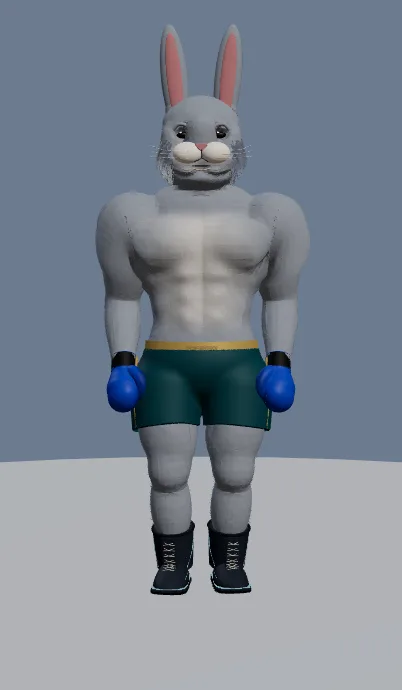
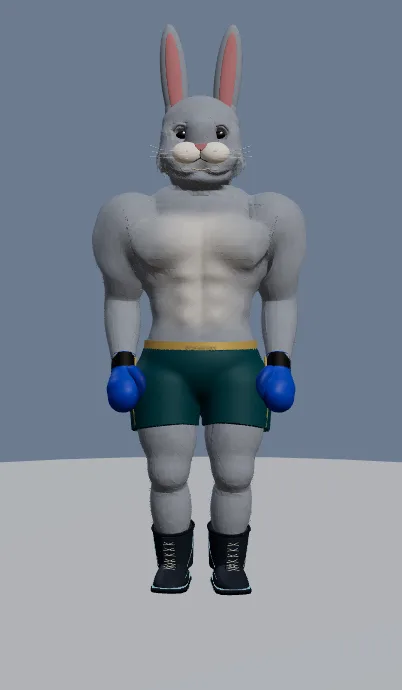
GOTR-0078: clothes follow the place in every story scene and trial (kit and gloves only in gym and ring), everyday poses outside fight moments, docks outfit (track pants + wraps), tests
Claude-Session: https://claude.ai/code/session_012XYxhJ7jTb1Ye5xdCZM7vq

diff --git a/adventure/story/story-core.js b/adventure/story/story-core.js
@@ -96,16 +96,16 @@
       ],
       actors: {
         fighter: { rig: 'fighter', keys: [
-          { t: 0, x: 0.6, z: -4.8, act: 'shadow', face: 0.25 },
-          { t: 5.6, x: 0.6, z: -4.8, act: 'guard', face: [-1.5, -5.1] },
+          { t: 0, x: 0.6, z: -4.8, act: 'idle', face: 0.25 },
+          { t: 5.6, x: 0.6, z: -4.8, act: 'idle', face: [-1.5, -5.1] },
           { t: 8.0, x: 0.6, z: -4.8, act: 'idle', face: [-1.5, -5.1] }
         ] },
-        pip: { rig: 'pip', mitts: true, keys: [
+        pip: { rig: 'pip', keys: [
           { t: 0, x: -8.2, z: -5.3, act: 'idle', face: Math.PI / 2 },
           { t: 1.0, x: -8.2, z: -5.3 },
           { t: 5.6, x: -1.5, z: -5.1, act: WAVE, face: [0.6, -4.8] },
           { t: 6.8, x: -1.5, z: -5.1, act: POINT },
-          { t: 8.4, x: -1.5, z: -5.1, act: 'mitts' }
+          { t: 8.4, x: -1.5, z: -5.1, act: 'idle' }
         ] }
       },
       props: { bus: [{ t: 0, v: [0.4] }, { t: 0.7, v: [0.4] }, { t: 3.6, v: [30], ease: 'in' }] },
@@ -126,7 +126,7 @@
       actors: {
         fighter: { rig: 'fighter', keys: [
           { t: 0, x: -8.2, z: -0.9, act: 'idle', face: [-11.6, -1.2] },
-          { t: 2.6, x: -8.2, z: -0.9, act: 'guard' },
+          { t: 2.6, x: -8.2, z: -0.9, act: 'idle' },
           { t: 4.4, x: -8.2, z: -0.9, act: 'idle' }
         ] },
         brick: { rig: 'brick', keys: [
@@ -155,7 +155,7 @@
         { t: 10.2, pos: [5.2, 1.55, 3.3], look: [6.9, 1.3, -1.0], fit: ['dash', 'fighter'], ease: 'linear' }
       ],
       actors: {
-        fighter: { rig: 'fighter', keys: [{ t: 0, x: 5.4, z: -0.5, act: 'idle', face: [8, -1.4] }, { t: 6.2, x: 5.4, z: -0.5, act: 'guard', face: [7.4, -1.4] }, { t: 8.4, x: 5.4, z: -0.5, act: 'idle' }] },
+        fighter: { rig: 'fighter', keys: [{ t: 0, x: 5.4, z: -0.5, act: 'idle', face: [8, -1.4] }, { t: 6.2, x: 5.4, z: -0.5, act: 'idle', face: [7.4, -1.4] }, { t: 8.4, x: 5.4, z: -0.5, act: 'idle' }] },
         regular: { rig: 'regular', keys: [{ t: 0, x: 8.7, z: -1.4, act: 'shadow', face: [7.4, -1.4] }, { t: 2.0, x: 8.7, z: -1.4, act: 'guard' }, { t: 2.95, x: 8.7, z: -1.4, act: 'down' }] },
         dash: { rig: 'dash', keys: [
           { t: 0, x: 2.4, z: -1.6, act: 'idle', face: Math.PI / 2 },
@@ -203,7 +203,7 @@
       ],
       actors: {
         brick: { rig: 'brick', keys: [{ t: 0, x: 11, z: -2.5, act: 'idle', face: [9.5, -1.7] }, { t: 0.5, x: 11, z: -2.5 }, { t: 2.2, x: 12.9, z: -1.5, act: 'idle', face: [9.5, -1.7] }, { t: 4.4, x: 12.9, z: -1.5, act: 'off' }] }, // out of the shot: not drawn
-        fighter: { rig: 'fighter', keys: [{ t: 0, x: 9.6, z: -1.7, act: 'guard', face: [11, -2.5] }, { t: 2.6, x: 9.6, z: -1.7, act: 'idle', face: [8.3, -1.5] }, { t: 6.0, x: 9.6, z: -1.7, act: 'flex' }] },
+        fighter: { rig: 'fighter', keys: [{ t: 0, x: 9.6, z: -1.7, act: 'idle', face: [11, -2.5] }, { t: 2.6, x: 9.6, z: -1.7, act: 'idle', face: [8.3, -1.5] }, { t: 6.0, x: 9.6, z: -1.7, act: 'flex' }] },
         pip: { rig: 'pip', keys: [{ t: 0, x: 6.6, z: -0.8, act: 'idle', face: Math.PI / 2 }, { t: 2.2, x: 6.6, z: -0.8 }, { t: 3.6, x: 7.6, z: -1.5, act: 'point', face: [9.6, -1.7] }, { t: 6.2, x: 7.6, z: -1.5, act: 'idle' }, { t: 7.2, x: 7.6, z: -1.5, act: 'wave' }] }
       },
       props: {},
@@ -228,8 +228,8 @@
         { t: 9.6, pos: [-1.2, 1.55, 3.1], look: [0.3, 1.3, -0.9], fit: ['vix', 'fighter'], ease: 'linear' }
       ],
       actors: {
-        fighter: { rig: 'fighter', keys: [{ t: 0, x: -5.2, z: -0.5, act: 'idle', face: HALF }, { t: 0.4, x: -5.2, z: -0.5 }, { t: 3.3, x: -0.7, z: -0.8, act: 'idle', face: [1.3, -1.0] }, { t: 6.4, x: -0.7, z: -0.8, act: 'guard' }] },
-        vix: { rig: 'vix', keys: [{ t: 0, x: 1.3, z: -1.0, act: 'shadow', face: 0.5 }, { t: 3.3, x: 1.3, z: -1.0, act: 'idle', face: [-0.7, -0.8] }, { t: 4.4, x: 1.3, z: -1.0, act: 'point' }, { t: 6.2, x: 1.3, z: -1.0, act: 'mitts' }] }
+        fighter: { rig: 'fighter', keys: [{ t: 0, x: -5.2, z: -0.5, act: 'idle', face: HALF }, { t: 0.4, x: -5.2, z: -0.5 }, { t: 3.3, x: -0.7, z: -0.8, act: 'idle', face: [1.3, -1.0] }, { t: 6.4, x: -0.7, z: -0.8, act: 'idle' }] },
+        vix: { rig: 'vix', keys: [{ t: 0, x: 1.3, z: -1.0, act: 'idle', face: 0.5 }, { t: 3.3, x: 1.3, z: -1.0, act: 'idle', face: [-0.7, -0.8] }, { t: 4.4, x: 1.3, z: -1.0, act: 'point' }, { t: 6.2, x: 1.3, z: -1.0, act: 'idle' }] }
       },
       props: {},
       lines: [
@@ -248,7 +248,7 @@
         { t: 9.6, pos: [-1.6, 1.55, 2.9], look: [-2.0, 1.3, -0.9], fit: ['pip', 'fighter'], ease: 'linear' }
       ],
       actors: {
-        fighter: { rig: 'fighter', keys: [{ t: 0, x: -1.2, z: -0.8, act: 'idle', face: [-3, -1] }, { t: 5.4, x: -1.2, z: -0.8, act: 'guard', face: HALF }] },
+        fighter: { rig: 'fighter', keys: [{ t: 0, x: -1.2, z: -0.8, act: 'idle', face: [-3, -1] }, { t: 5.4, x: -1.2, z: -0.8, act: 'idle', face: HALF }] },
         pip: { rig: 'pip', keys: [{ t: 0, x: -3.0, z: -1.0, act: 'idle', face: [-1.2, -0.8] }, { t: 0.6, x: -3.0, z: -1.0, act: 'wave' }, { t: 3.4, x: -3.0, z: -1.0, act: 'idle' }, { t: 5.6, x: -3.0, z: -1.0, act: 'point', face: HALF }] },
         raccoon: { rig: 'raccoon', keys: [{ t: 0, x: -8.5, z: -2.0, act: 'off', face: HALF }, { t: 1.0, x: -8.5, z: -2.0, act: 'idle' }, { t: 3.1, x: -3.75, z: -1.55, act: 'point', face: [-3.0, -1.0] }, { t: 3.7, x: -3.75, z: -1.55, act: 'idle' }, { t: 6.2, x: 9.5, z: -1.3 }, { t: 6.3, x: 9.5, z: -1.3, act: 'off' }] }
       },
@@ -270,7 +270,7 @@
       actors: {
         regular: { rig: 'regular', keys: [{ t: 0, x: 14.4, z: -1.3, act: 'down', face: [12.9, -1] }] },
         dash: { rig: 'dash', keys: [{ t: 0, x: 12.9, z: -1.0, act: 'flex', face: 0.3 }, { t: 3.4, x: 12.9, z: -1.0, act: 'point', face: [11.0, -0.7] }, { t: 6.4, x: 12.9, z: -1.0, act: 'laugh' }] },
-        fighter: { rig: 'fighter', keys: [{ t: 0, x: 8.2, z: -0.4, act: 'idle', face: HALF }, { t: 0.6, x: 8.2, z: -0.4 }, { t: 2.6, x: 11.0, z: -0.7, act: 'idle', face: [12.9, -1.0] }, { t: 3.6, x: 11.0, z: -0.7, act: 'guard' }] }
+        fighter: { rig: 'fighter', keys: [{ t: 0, x: 8.2, z: -0.4, act: 'idle', face: HALF }, { t: 0.6, x: 8.2, z: -0.4 }, { t: 2.6, x: 11.0, z: -0.7, act: 'idle', face: [12.9, -1.0] }, { t: 3.6, x: 11.0, z: -0.7, act: 'idle' }] }
       },
       props: {},
       lines: [
@@ -306,7 +306,7 @@
       ],
       actors: {
         king: { rig: 'king', keys: [{ t: 0, x: -14, z: -1.2, act: 'down', face: [-12.2, -0.9] }, { t: 3.4, x: -14, z: -1.2, act: 'idle' }] },
-        fighter: { rig: 'fighter', keys: [{ t: 0, x: -12.2, z: -0.9, act: 'guard', face: [-14, -1.2] }, { t: 1.0, x: -12.2, z: -0.9, act: 'idle' }, { t: 3.8, x: -12.2, z: -0.9, act: 'flex', face: 0.6 }] }
+        fighter: { rig: 'fighter', keys: [{ t: 0, x: -12.2, z: -0.9, act: 'idle', face: [-14, -1.2] }, { t: 1.0, x: -12.2, z: -0.9, act: 'idle' }, { t: 3.8, x: -12.2, z: -0.9, act: 'flex', face: 0.6 }] }
       },
       props: {},
       lines: [
@@ -317,6 +317,20 @@
     }
   });
 
-  const api = { clamp, smooth, EASE, segment, camera, prop, actor, line, sample, validate, scenes, STEP, L };
+  /* ---------------------------------------------------------------- places and clothes (owner's rule, GOTR-0078)
+   * Boxing kit and gloves belong to the gym and the ring only. Every scene and every skill trial has a place kind; the
+   * outfit of EVERY character in it follows the place: street and market -> street clothes, bare hands; docks -> long
+   * track pants and hand wraps, no gloves; gym and ring -> boxing kit. Outside a fight or drill moment characters stand
+   * and move like people (no guard). */
+  const PLACES = ['street', 'market', 'docks', 'gym', 'ring'];
+  const SET_PLACE = { busstop: 'street', gymfront: 'street', market: 'market', dream_street: 'street', dream_gym: 'gym' };
+  const OUTFIT = { street: 'street', market: 'street', docks: 'track_wraps', gym: 'kit', ring: 'kit' };
+  const placeOf = scene => scene?.place || SET_PLACE[scene?.set] || 'street';
+  const outfitFor = place => OUTFIT[place] || 'street';
+  /** Acts that are a fight or a punching drill: only these may show the guard or punches. Everything else is everyday body language. */
+  const FIGHT_ACTS = ['guard', 'shadow', 'combo', 'move'];
+  for (const sc of Object.values(scenes)) sc.place = placeOf(sc);
+  for (const id of ['dash', 'boss_intro', 'hyena_intro']) scenes[id].fight = true; // scenes where a fight really starts or happens: the only ones that may use FIGHT_ACTS
+  const api = { clamp, smooth, EASE, segment, camera, prop, actor, line, sample, validate, scenes, STEP, L, PLACES, SET_PLACE, placeOf, outfitFor, FIGHT_ACTS };
   if (typeof module !== 'undefined') module.exports = api; else window.StoryCore = api;
 })();

diff --git a/adventure/story/story-cast.js b/adventure/story/story-cast.js
@@ -456,8 +456,8 @@
     // arrival clothes: a grey marl hoodie, worn jeans, tired canvas sneakers, bare hands
     street: {
       hide: ['gloves', 'shorts', 'boots', 'trim', 'fur'],
-      cloth(rig) {
-        const tone = HOODIE[rig.species] || HOODIE.lion, hood = lin(tone[0]), dark = lin(tone[1]), denim = lin('#3d5b86'), worn = lin('#7f9cc4'), seam = lin('#c9a36a'), tmp = new THREE.Color();
+      cloth(rig, tint) {
+        const tone = HOODIE[rig.species] || HOODIE.lion, hood = tint ? lin(tint).lerp(lin('#8a8f96'), .35) : lin(tone[0]), dark = tint ? hood.clone().multiplyScalar(.72) : lin(tone[1]), denim = lin('#3d5b86'), worn = lin('#7f9cc4'), seam = lin('#c9a36a'), tmp = new THREE.Color();
         return v => {
           const ax = Math.abs(v.x);
           if (v.y > 1.772 || ax > .925 || v.y < .112) return null;
@@ -480,12 +480,12 @@
           return { d: .022 + .006 * waist + .005 * pocket + wr + gather - .006 * Math.max(hem, cuff) * (1 - rib * .5) - .006 * smooth((v.y - 1.71) / .06), c, move };
         };
       },
-      parts(rig, add) {
+      parts(rig, add, tint) {
         const f = FUR[rig.species] || FUR.lion, j = rig.joints, B = (x, y, back) => seat(rig, x, y, false, .02, back);
         for (const m of bareHands(rig, f.fur, f.pad)) add(m);
         for (const m of shoes(rig, { upper: '#d6cfbf', toe: '#bdb5a3', sole: '#a79e8c', edge: '#8c3b33', lace: '#efeadf', collar: '#b9b1a0' })) add(m);
         // the hood lies on the upper back; a collar ring and two drawstrings in front
-        const P = new Parts(), [hood, dark] = HOODIE[rig.species] || HOODIE.lion, bz = B(0, 1.66, true), o = V(0, 1.36, 0), L = p => p.clone().sub(o);
+        const hc = tint ? lin(tint).lerp(lin('#8a8f96'), .35) : lin((HOODIE[rig.species] || HOODIE.lion)[0]), P = new Parts(), hood = hc, dark = hc.clone().multiplyScalar(.72), bz = B(0, 1.66, true), o = V(0, 1.36, 0), L = p => p.clone().sub(o);
         P.sph(L(V(0, 1.63, bz - .02)), V(.2, .17, .07), hood, [.2, 0, 0]); P.sph(L(V(0, 1.675, bz - .068)), V(.13, .09, .03), dark, [.2, 0, 0]); for (const sd of [-1, 1]) P.sph(L(V(sd * .13, 1.72, bz * .5 - .01)), V(.075, .06, .1), hood, [0, sd * .5, 0]);
         P.tor(L(V(0, 1.775, -.012)), V(.118, .135, .11), hood, [Math.PI / 2 - .22, 0, 0]);
         for (const s of [-1, 1]) { const z = B(s * .045, 1.62); P.ribbon([L(V(s * .05, 1.70, B(s * .05, 1.70) + .01)), L(V(s * .045, 1.64, B(s * .045, 1.64) + .01)), L(V(s * .05, 1.575, B(s * .05, 1.575) + .008))], .008, .008, '#e9e4d8', V(1, 0, 0), 10, 6); P.sph(L(V(s * .05, 1.568, B(s * .05, 1.575) + .008)), V(.008, .012, .008), '#e9e4d8'); }
@@ -493,19 +493,36 @@
       }
     }
   };
+  // the docks: long track pants, hand wraps, no gloves, bare chest
+  OUTFITS.track_wraps = {
+    hide: ['gloves', 'shorts', 'boots', 'trim'],
+    cloth(rig, tint) {
+      const pants = lin('#2f333b'), stripe = lin(tint || '#d9d4c6'), tmp = new THREE.Color();
+      return v => { if (v.y > 1.075 || v.y < .112 || v.arm > .5) return null; const ax = Math.abs(v.x), side = bell(Math.abs(Math.atan2(v.z, ax - (.15 + (1 - v.y) * .07))), 0, .16) * smooth((ax - .2) / .04), band2 = 1 - smooth((1.045 - v.y) / .02);
+        return { d: (.015 + .008 * bell(v.y, .13, .03)) * (1 - .4 * smooth((v.y - 1.05) / .025)), c: tmp.copy(pants).lerp(stripe, clamp(side * 1.3)).lerp(lin('#1d2026'), band2).clone(), move: v.y < .93 ? trouser(v, lerp(.112, .126, smooth((v.y - .5) / .4)), smooth((.93 - v.y) / .1)) : null }; };
+    },
+    parts(rig, add) {
+      const f = FUR[rig.species] || FUR.lion;
+      for (const m of bareHands(rig, f.fur, f.pad)) add(m);
+      for (const sd of ['L', 'R']) { const P = new Parts(); for (let k = 0; k < 4; k++) P.tor(V(0, -.012 - k * .024, 0), V(.047 - k * .001, .04, .05), '#f1ece0', [Math.PI / 2, 0, 0]); P.sph(V(0, -.098, .008), V(.048, .03, .034), '#f1ece0', [.35, 0, 0]); const m = P.mesh('Hand wraps'); rig.joints['hand' + sd].add(m); add(m); }
+      for (const m of shoes(rig, { upper: '#3b3e46', toe: '#2a2d33', sole: '#c9c0ae', lace: '#d8d2c4' })) add(m);
+    }
+  };
   const state = rig => rig.storyCast || (rig.storyCast = { outfit: 'kit', built: {}, hidden: [], base: null, bag: null });
-  function outfit(rig, name) {
+  function outfit(rig, name, o = {}) {
     if (!rig?.skin || !(name in OUTFITS)) return false;
-    groom(rig); const st = state(rig), g = rig.skin.geometry; if (st.outfit === name) return true;
+    if (rig.cast) return true; // story characters wear their own clothes (Bruno) or their kit (Brick)
+    const tint = name !== 'kit' && o.tint ? String(o.tint) : '', key = name + (tint ? '|' + tint : '');
+    groom(rig); const st = state(rig), g = rig.skin.geometry; if (st.key === key || (name === 'kit' && st.outfit === 'kit')) return true;
     // back to the kit: streams and every visibility flag exactly as they were
-    if (st.outfit !== 'kit') { use(g, st.base); for (const [o, v] of st.hidden) o.visible = v; st.hidden = []; for (const m of st.built[st.outfit].parts) m.visible = false; if (st.bag) st.bag.visible = false; st.outfit = 'kit'; }
+    if (st.outfit !== 'kit') { use(g, st.base); for (const [o, v] of st.hidden) o.visible = v; st.hidden = []; for (const m of st.built[st.key].parts) m.visible = false; if (st.bag) st.bag.visible = false; st.outfit = 'kit'; st.key = 'kit'; }
     if (name === 'kit') return true;
     const def = OUTFITS[name]; if (!st.base) st.base = grab(g);
-    let b = st.built[name];
-    if (!b) { b = st.built[name] = { parts: [], streams: null }; if (def.cloth) { b.streams = dress(g, def.cloth(rig), { relax: 26 }); use(g, b.streams); } if (def.parts) def.parts(rig, m => b.parts.push(m)); } // small parts are seated on the dressed surface
+    let b = st.built[key];
+    if (!b) { b = st.built[key] = { parts: [], streams: null }; if (def.cloth) { b.streams = dress(g, def.cloth(rig, tint), { relax: 26 }); use(g, b.streams); } if (def.parts) def.parts(rig, m => b.parts.push(m), tint); } // small parts are seated on the dressed surface
     if (b.streams) use(g, b.streams);
     const kit = kitParts(rig); for (const k of def.hide || []) for (const o of kit[k] || []) { st.hidden.push([o, o.visible]); o.visible = false; }
-    for (const m of b.parts) m.visible = true; st.outfit = name; return true;
+    for (const m of b.parts) m.visible = true; st.outfit = name; st.key = key; return true;
   }
   const outfitOf = rig => rig?.storyCast?.outfit || 'kit';
 

diff --git a/adventure/story/story-scenes.js b/adventure/story/story-scenes.js
@@ -77,7 +77,14 @@
     else c.update(phase * 1.22, move, 'one_two', { ...base, guardCover: 1, power, recoil: 0, advance: 0, contactDrive: 0 });
   }
   /** Poses one rig from an actor state: act + walking (procedural boxer's step through the controller's ringStep). Returns a hop height. */
+  const CIVIL = { idle: {}, wave: { R: 'wave' }, point: { R: 'point' }, laugh: { L: 'hips', R: 'hips' }, block: { L: 'cross', R: 'cross2' }, flex: { R: 'fist' }, mitts: { L: 'open', R: 'open' } };
+  /** Owner's rule: outside a fight or drill moment a character stands, walks and talks like a person (DreamPose), never in the guard. */
+  function everyday(c, a, t, o) {
+    const P = window.DreamPose, fight = Core().FIGHT_ACTS.includes(a.act); if (!P || fight || !(a.act in CIVIL) && !a.walking) return false;
+    P.civil(c, { t, dt: o.dt || 0, dist: a.dist ?? (a.stepPhase || 0) * P.STRIDE, walk: a.walking ? 1 : 0, arms: a.walking && a.act !== 'idle' && !(a.act in CIVIL) ? {} : CIVIL[a.act] || {}, nod: a.act === 'laugh' ? 1 : 0, talk: o.talking ? 1 : null }); return true;
+  }
   function pose(c, a, t, o = {}) {
+    if (a.act !== 'carry' && everyday(c, a, t, o)) return a.act === 'laugh' && !o.reduced ? .012 * Math.abs(Math.sin(a.actT * 12)) : 0;
     const base = { simulationTime: t, keepFaceClear: true, ...o.options }, act = a.act, relaxed = { mode: 'waiting', raise: 0 };
     if (a.walking) base.ringStep = { first: -1, phase: a.stepPhase, ease: a.stepPhase, weight: 1, turn: 0, delta: [0, 0, Core().STEP] };
     let y = 0;
@@ -303,7 +310,8 @@
     const run = { id, closed: false, t: 0, ui, host: ui.host, edge: 0 };
     current = run;
     let set = null, scene = null, camera = null, borrowed = [], mitts = [], rigs = {}, sim = null, stageMove = null, oldFit = null, finished = false, blobs = [];
-    let memo = {}, hard = !!opts.hard, acts = 0; const look = V(), extras = [];
+    let memo = {}, hard = !!opts.hard, acts = 0; const look = V(), extras = [], dressed = [];
+    const place = C.placeOf(game || scene0), wear = C.outfitFor(place); run.place = place; run.wear = wear;
     const finish = (result = {}) => {
       if (run.closed) return; run.closed = true; if (current === run) current = null;
       try { cleanup(); } catch (x) { console.warn('story', x); }
@@ -315,6 +323,7 @@
       if (e.fightIQDemo === run) e.fightIQDemo = null;
       for (const m of mitts) window.TrainingGear?.dispose(m); mitts = [];
       for (const m of extras) { scene?.remove(m); m.material?.dispose(); } if (extras.length) extras[0].geometry.dispose(); extras.length = 0;
+      for (const c of dressed) { window.StoryCast?.outfit(c, 'kit'); window.DreamPose?.reset(c); } dressed.length = 0;
       for (const b of borrowed) giveBack(b); borrowed = [];
       for (const b of blobs) { scene?.remove(b.mesh); } if (blobs.length) { blobs[0].mesh.geometry.dispose(); blobs[0].mesh.material.map.dispose(); blobs[0].mesh.material.dispose(); } blobs = [];
       set?.dispose(); set = null;
@@ -347,7 +356,8 @@
       for (const [key, a] of Object.entries(game ? game.roles : scene0.actors)) {
         const c = rigFor(a.rig || key, e, borrowed.map(b => b.c));
         borrowed.push(borrow(c)); scene.add(c.root); c.root.visible = true; c.root.rotation.set(0, 0, 0); c.root.scale.set(-1, 1, 1); /* GOTR-0074: fighters are mirrored at the root; a plain scale of 1 tears the skin */ c.maneInitialized = false; rigs[key] = c;
-        if (a.mitts && window.TrainingGear) mitts.push(window.TrainingGear.mitt(c, 'L'), window.TrainingGear.mitt(c, 'R'));
+        window.DreamPose?.reset(c); if (window.StoryCast) { window.StoryCast.outfit(c, wear, { tint: looks[a.rig || key]?.shorts }); dressed.push(c); } // clothes follow the place (kit and gloves only in the gym and the ring)
+        if (a.mitts && window.TrainingGear && wear === 'kit') mitts.push(window.TrainingGear.mitt(c, 'L'), window.TrainingGear.mitt(c, 'R'));
       }
       if (game) { sim = game.make(Trials(), { hard }); run.intro = opts.noIntro ? 0 : 3; }
       // Soft contact shade under every character: keeps feet on the ground when the device has turned shadows off.

diff --git a/adventure/story/dream-core.js b/adventure/story/dream-core.js
@@ -69,7 +69,7 @@
   const scenes = {
     /* Beat 0. Map dive, the bus pulls in, the Fighter steps off with his bag, looks up at the city, walks to Bruno's Gym. */
     dream_opening: {
-      set: 'dream_street', intro: 'map', duration: 31.5, chapter: 1, outfit: { fighter: 'street' }, bag: [{ t: 0, on: 'shoulder' }],
+      set: 'dream_street', place: 'street', intro: 'map', duration: 31.5, chapter: 1, outfit: { fighter: 'street' }, bag: [{ t: 0, on: 'shoulder' }],
       camera: [
         { t: 0, pos: [-24, 40, 5], look: [-2, 0, 3] },                                        // down from the sky
         { t: 4.6, pos: [9.6, 2.7, 10.4], look: [.4, 1.5, 3.4] },
@@ -119,7 +119,7 @@
 
     /* Beat 1. The gym hall. He has no money, one bag and a dream. "Words are cheap. Show me." Brick steps forward. */
     dream_gym_talk: {
-      set: 'dream_gym', duration: 44, chapter: 1, tap: true, outfit: { fighter: 'street' },
+      set: 'dream_gym', place: 'gym', duration: 44, chapter: 1, tap: true, outfit: { fighter: 'street' },
       bag: [{ t: 0, on: 'shoulder' }, { t: 4.2, on: 'floor', at: [-1.5, .55, .5] }],
       camera: [
         { t: 0, pos: [-1.2, 2.3, 8.6], look: [.6, 1.25, -1.5] },                               // the hall: ring, bags, Bruno
@@ -196,7 +196,7 @@
   /* Beat 2, after the fight. Bruno's job offer; the loss is the expected story, a win is remembered. */
   function afterBrick(win) {
     return {
-      set: 'dream_gym', duration: 24, chapter: 1, tap: true, outcome: win ? 'win' : 'loss', outfit: { fighter: 'kit' },
+      set: 'dream_gym', place: 'gym', duration: 24, chapter: 1, tap: true, outcome: win ? 'win' : 'loss', outfit: { fighter: 'kit' },
       camera: [
         { t: 0, pos: [-1.0, 1.25, 4.3], look: [-.55, 1.2, .8] },
         { t: 4, pos: [0, 1.5, 4.5], look: [0, 1.3, .8], ease: 'smooth' },

diff --git a/adventure/story/dream-pose.js b/adventure/story/dream-pose.js
@@ -30,6 +30,7 @@
     cross: { h: [-.105, 1.36, .255], pole: [.8, -.75, .2], palm: [0, 0, -1], turn: .7 },   // arms folded
     cross2: { h: [-.14, 1.305, .285], pole: [.8, -.75, .2], palm: [0, 0, -1], turn: .7 },
     pound: { h: [.075, 1.36, .33], pole: [.85, -.6, 0], palm: [-1, 0, 0], turn: .5 },      // glove into glove
+    wave: { h: [.40, 1.93, .12], pole: [1, -.3, -.2], palm: [0, 0, 1], turn: .5 },           // hand up: hello
     low: { h: [.30, 1.02, .16], pole: [.4, -.3, -1], palm: [-1, 0, 0], turn: .4 },         // offering a hand low
     carry: { h: [.31, .93, .06], pole: [.25, -.1, -1], palm: [-1, 0, 0], turn: .35 }       // straight arm with a weight (bag handles)
   };
